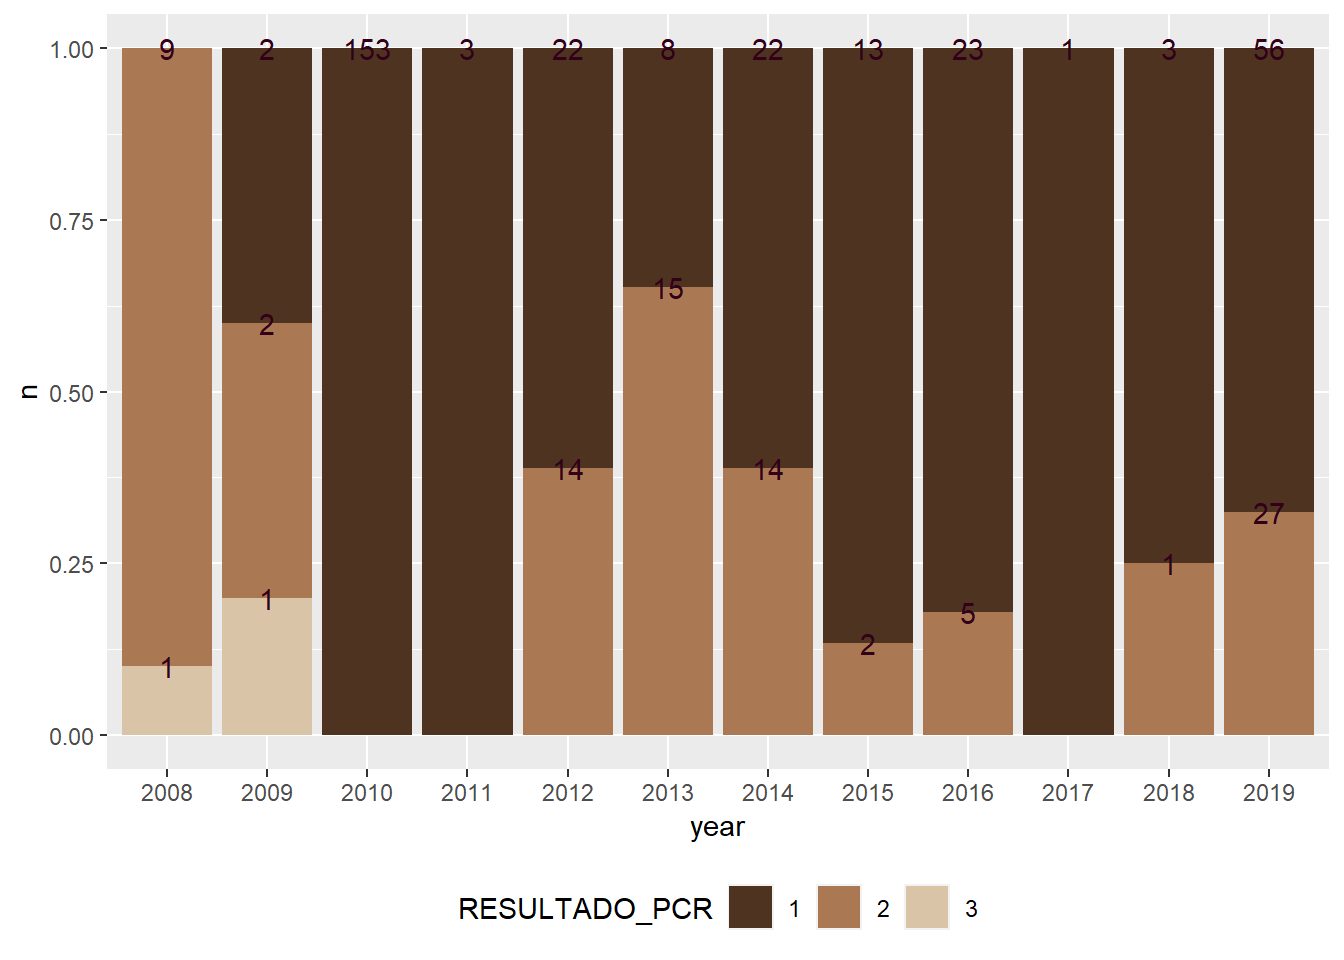
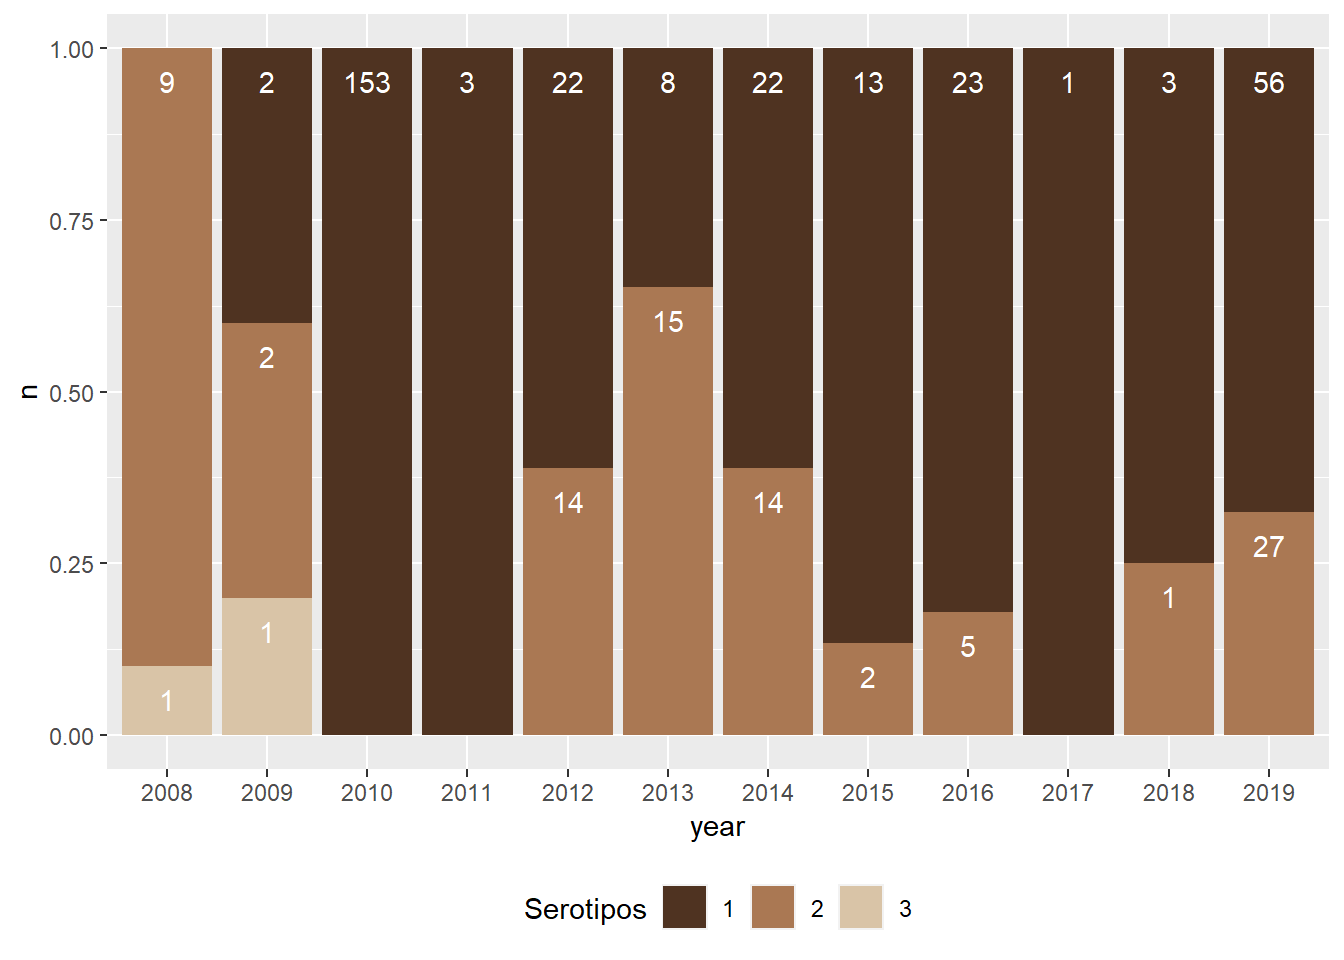
This commit update the bookdown

diff --git a/docs/dianostico.html b/docs/dianostico.html
@@ -131,7 +131,7 @@
 <p><strong>Verificación Sanitarias y corrupción</strong></p>
 <p><strong>Programa de Prevención y Control del Dengue</strong></p>
 <p>La presencia del dengue en el Municipios de Chilpancingo de los Bravo está documentada en bases de datos de los cubos dinamicos del SUIVE, desde finales de los 90s (1999). Sin embargo se sospecha la introducción de los virus del dengue en las costas del pacífico en los 80s.</p>
-<p>En el transcurso de las dos decadas de transmisión de dengue en el municipio de chilpancingo de los Bravo, el municipio se ha vuelto endémico e hiperéndemico (Figura 1 y 2). En la Figura 1 se puede observar que la transmisión continua de dengue en todos los 22 años graficados (eje x).</p>
+<p>En el transcurso de las dos decadas de transmisión de dengue en el municipio de chilpancingo de los Bravo, el municipio se ha vuelto endémico e hiperéndemico (Figura 4.1 y 4.2). En la Figura 4.1 se puede observar que la transmisión continua de dengue en todos los 22 años graficados (eje x) y en la Figura 4.1 se observa que durante el periódo de 2008 al 2019 han circulado tres serotipos. La mayoria de los años circulo el serotipo 1 y 2, presentando mayor dominando el serotipo 2.</p>
 <div class="figure"><span id="fig:unnamed-chunk-1"></span>
 <img src="control_fauna_nociva_files/figure-html/unnamed-chunk-1-1.gif" alt="Casos de dengue en municipio de Chilpancingo de los Bravo en el periódo comprendido entre el año 2000 al año 2021. Fuente: Cubos Dinámicos de la Dirección General de Información en Salud."  />
 <p class="caption">
